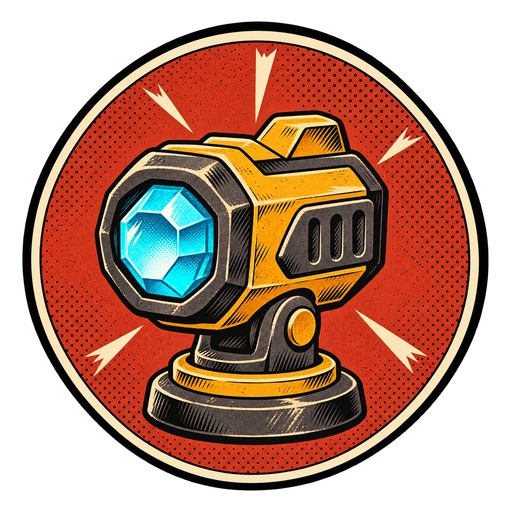
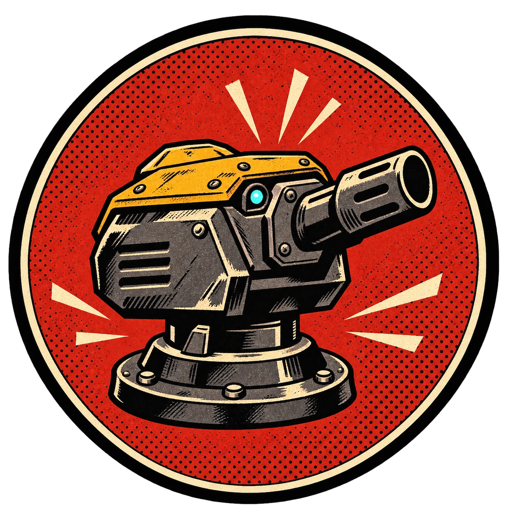
Storage countdown, half barricade gap, turret rewards, sparks (0.1.16)
- Stored items show a radial countdown fill while looked at.
- Fully barricaded three-way splits leave one branch half open, a narrow gap
  the jeep (and the autopilot) can get through without damage.
- Turret kills pay 20 coins with a "+20" popup, like rock hits.
- New turret icon (supplied art).
- Orange sparks off the side of the jeep scraping a road edge.
- Rock-throw stare cut from 1 s to 0.7 s.
- Headless preview: 121 checks, all passing.

diff --git a/Assets/LastLight/Editor/PrototypeBuilder.cs b/Assets/LastLight/Editor/PrototypeBuilder.cs
@@ -541,6 +541,7 @@ namespace LastLight.EditorTools
                         if (director.Track.OnCliffStretch(director.Distance + 2f)) Shot(cliffWidths.Count > 3 ? "cliff_narrow" : "cliff");
                     }
                     if (mode == AutopilotMode.NoSteering && director.Car.scraping) Shot("scraping");
+                    if (mode == AutopilotMode.NoSteering && director.Car.scraping && director.Car.speed > 3f && director.Fx.ActiveCount > 12) Close("scraping_sparks");
                     TrackNewFeatures();
                     if (mode == AutopilotMode.TakeDeadEnds && director.Car.trapped) Shot("trapped");
                     if (director.Car.falling && t > 0f) fallFrames++;
@@ -769,7 +770,9 @@ namespace LastLight.EditorTools
 
             Phase("Normal driving", AutopilotMode.Normal, 150f, null);
             int normalEnd = director.EventLog.Count;
+            int sparksBefore = director.ScrapeSparks;
             Phase("No steering", AutopilotMode.NoSteering, 45f, null);
+            int scrapeSparks = director.ScrapeSparks - sparksBefore;
             int noSteerEnd = director.EventLog.Count;
             Phase("Into dead ends", AutopilotMode.TakeDeadEnds, 240f, () => director.EventLog.Skip(noSteerEnd).Any(l => l.Contains("Run over: Trapped")));
             int trappedEnd = director.EventLog.Count;
@@ -810,6 +813,7 @@ namespace LastLight.EditorTools
             Run(TurretGun.Duration + 0.6f);
             bool turretExpired = !director.Turret.Active;
             int turretShots = director.Turret.ShotsFired, turretKills = director.Turret.Kills;
+            int turretRewards = director.EventLog.Count(l => l.Contains("Turret kill reward: +20 coins"));
 
             // Acid: stop dodging and let the shooters hit the jeep.
             director.autopilotMode = AutopilotMode.NoSteering;
@@ -1035,6 +1039,7 @@ namespace LastLight.EditorTools
             }
             int storeStart = director.EventLog.Count;
             LookAtRack(0, 0.6f);
+            bool countdownShown = director.Rack.FillVisible(0);
             bool notUsedEarly = director.Save.SlotItem(0) == PickupKind.Shovel && !director.FrontShovel.Active;
             Render(cam, rt, headWorld, director.Rack.root.position, Path.Combine(outDir, "view_storage_rack_dwell.png"));
             LookAtRack(0, 0.55f);
@@ -1260,7 +1265,7 @@ namespace LastLight.EditorTools
             director.Restart();
             int lateStart = director.EventLog.Count;
             float lateT = 0f, firstNaturalWeatherAt = -1f, guaranteedFlashlightS = -1f;
-            while (lateT < 300f && director.Distance < 1400f && director.State == RunState.Running)
+            while (lateT < 320f && director.Distance < 1550f && director.State == RunState.Running)
             {
                 director.Car.invulnerable = 1e6f;
                 director.Tick(dt);
@@ -1276,6 +1281,8 @@ namespace LastLight.EditorTools
                 if (director.Track.ForkAt(director.Distance + 6f) is Fork tf && tf.ThreeWay && director.Track.BranchesSeparated(director.Distance + 6f)) Shot(tf.BlockedCount == 3 ? "three_way_all_blocked" : "three_way");
                 if (director.Track.TwinAt(director.Distance + 4f) != null && director.Track.OnCliffStretch(director.Distance + 4f)) Shot("twin_cliff");
                 if (director.Weather.Kind == WeatherKind.Snow && director.Weather.SnowCover > 0.8f) Shot("snow_natural");
+                if (director.Track.ForkAt(director.Distance + director.Car.boostOffset) is Fork gf && gf.HalfBlocked(director.Car.branch)
+                    && director.Track.hazards.Any(h => h != null && h.alive && h.kind == HazardKind.Barricade && Mathf.Abs(h.DioramaLocal.z - director.Car.Z) < 3f)) { Close("three_way_gap"); Shot("three_way_gap"); }
                 if (director.Weather.Kind == WeatherKind.Storm && director.Track.hazards.Any(h => h != null && h.alive && h.Blown && Diorama.InsideDisk(h.DioramaLocal))) Shot("storm_branch");
             }
             var lateLog = director.EventLog.Skip(lateStart).ToList();
@@ -1284,6 +1291,8 @@ namespace LastLight.EditorTools
             int threeWayTaken = lateLog.Count(l => l.Contains("branch of a three-way split"));
             int threeWayClear = lateLog.Count(l => l.Contains("branch of a three-way split: clear branch"));
             int threeWayAllBlocked = director.Track.ThreeWaySplits[3];
+            int threeWayGapTaken = lateLog.Count(l => l.Contains("half-barricaded branch with a narrow gap"));
+            int lateBarricadeHits = lateLog.Count(l => l.Contains("a barricade"));
             int twinCrossings = 0;
             {
                 bool onTwin = false;
@@ -1455,6 +1464,7 @@ namespace LastLight.EditorTools
             Check("Clear branch of an obstacle split taken", count("clear branch") > 0);
             Check("Split road rejoined", count("Split road rejoined") > 0);
             Check("Curves push an unsteered jeep into the edge", log.Skip(normalEnd).Take(noSteerEnd - normalEnd).Any(l => l.Contains("Scraping")));
+            Check($"Scraping a road edge throws sparks ({scrapeSparks} bursts)", scrapeSparks > 0);
             Check("Dead-end branch taken", count("split: dead end") > 0);
             Check("Dead-end wall traps the jeep", count("Hit the dead-end wall: trapped") > 0);
             Check("Trapped run ends", count("Run over: Trapped") > 0);
@@ -1476,6 +1486,7 @@ namespace LastLight.EditorTools
             Check($"Shooters spit acid at the jeep ({count("Shooter spat acid")} shots)", count("Shooter spat acid") > 0);
             Check($"Acid slows the jeep hard ({acidSpeed * 10f:0} km/h)", acidSlowed && acidSpeed < acidCruise * director.acidSpeedCap + 0.01f);
             Check($"Turret appears, fires and kills shooters for 10 s ({turretShots} rounds, {turretKills} kills)", turretUp && turretShots > 0 && turretKills > 0 && turretExpired);
+            Check($"Each turret kill pays {GameDirector.SpitterKillCoins} coins ({turretRewards} rewards)", turretKills > 0 && turretRewards >= turretKills);
             Check($"No turret powerups before the medium stage ({earlyTurrets})", earlyTurrets == 0);
             Check($"Shovel smashes obstacles without slowing ({shovelSmashes} smashes)", shovelSmashes > 0 && shovelNoSlowdown);
             Check("Shovel breaks after 5 hits", !shovelBroke || shovelSmashes == Shovel.MaxHits);
@@ -1512,7 +1523,7 @@ namespace LastLight.EditorTools
             Check("Storage starts with one free slot; slots unlock in order for coins", oneFreeSlot && outOfOrderRefused && slotsUnlocked);
             Check("A 4th storage slot can only be bought once a second vehicle is owned", fourthBarred && fourthAfterVehicle && fourthSlotBought);
             Check("Items bought in the garage fill empty slots; a full compartment refuses", itemsStored && fullRefused);
-            Check("A 1 s look at a stored item uses it; empty slots ignore the gaze", notUsedEarly && shovelUsed && emptySlotIgnored);
+            Check("A 1 s look at a stored item uses it, with a radial countdown fill; empty slots ignore the gaze", notUsedEarly && countdownShown && shovelUsed && emptySlotIgnored);
             Check("Different powerups stack; the same one replaces the equipped one", stacked && boostReplaced);
             Check("Fog smothers the scout light; the weather dial shows fog", fogBlocks);
             Check("A flashlight cuts through the fog", flashlightCutsFog);
@@ -1577,9 +1588,9 @@ namespace LastLight.EditorTools
             Check("Rhino starts every run with a shovel fitted, outside the compartment", rhinoShovel);
             Check("All four vehicles use their Tripo models, and the garage stage uses the Tripo garage", vehiclesUseModels && director.GarageUI.UsesGarageModel);
             Check("Angel Transponder: the most expensive vehicle, first respawn in a run free, then the usual price", angelPricedTop && angelFirstFree && freeRespawned && secondCostsBase);
-            Check($"Three-way splits from the medium stage: the autopilot takes a clear branch ({threeWayTaken} taken, {threeWayClear} clear, {threeWayAllBlocked} fully barricaded)",
-                threeWayTaken >= 2 && threeWayClear >= threeWayTaken - threeWayAllBlocked);
-            Check("Three-way splits start with 2 of 3 clear, then 1 of 3, then all 3 barricaded", ThreeWayProgression());
+            Check($"Three-way splits from the medium stage: the autopilot takes a clear branch or the narrow gap without hitting a barricade ({threeWayTaken} taken, {threeWayClear} clear, {threeWayGapTaken} through a gap, {lateBarricadeHits} hits)",
+                threeWayTaken >= 2 && threeWayClear + threeWayGapTaken >= threeWayTaken && lateBarricadeHits == 0);
+            Check("Three-way splits start with 2 of 3 clear, then 1 of 3; when all 3 are barricaded one has a narrow gap", ThreeWayProgression());
             Check("The shovel smashes through a split road's dead-end wall without stopping", shovelBreaksWall);
             Check($"Twin cliff roads from {TrackGenerator.TwinCliffsFrom:0} m: the first is safe both ways, later ones have a dead end ({twinsPlanned} planned, {twinDeadPlanned} with a dead end)", twinsPlanned >= 2 && firstTwinSafe && twinDeadPlanned >= 1);
             Check("Twin cliff road shape: two strips, one narrower, a ridge across, and the dead strip ends in a drop", stripsSplit && oneNarrower && ridgeBridges && deadStripDrops && safeRespawn);
@@ -1648,19 +1659,22 @@ namespace LastLight.EditorTools
             var root = new GameObject("Three-way Odds").transform;
             var mat = new Material(Shader.Find("LastLight/Diorama"));
             var plan = new System.Collections.Generic.List<Vector2>();
+            int halfGaps = 0, allBlocked = 0;
             for (int seed = 1; seed <= 6; seed++)
             {
                 var t = new TrackGenerator(root, mat, mat, seed);
                 for (float dist = 0f; dist < 1800f; dist += 6f) t.Scroll(dist, 0f, Mathf.FloorToInt(dist / 120f), 20f);
                 plan.AddRange(t.ThreeWayPlan);
+                halfGaps += t.ThreeWayHalfGaps;
+                allBlocked += t.ThreeWaySplits[3];
                 t.Reset();
             }
             Object.DestroyImmediate(root.gameObject);
             bool none = plan.All(p => p.x >= TrackGenerator.ThreeWayFrom);
             bool earlyOne = plan.Where(p => p.x < TrackGenerator.TwoBlockedFrom).All(p => p.y == 1) && plan.Any(p => p.x < TrackGenerator.TwoBlockedFrom);
             bool midTwo = plan.Any(p => p.x >= TrackGenerator.TwoBlockedFrom && p.y == 2) && plan.Where(p => p.x < TrackGenerator.AllBlockedFrom).All(p => p.y <= 2);
-            bool lateThree = plan.Any(p => p.x >= TrackGenerator.AllBlockedFrom && p.y == 3);
-            Debug.Log($"[LastLight] Three-way splits over 6 seeds: {plan.Count}; {string.Join(", ", plan.Select(p => $"{p.x:0} m/{p.y:0}"))}");
+            bool lateThree = plan.Any(p => p.x >= TrackGenerator.AllBlockedFrom && p.y == 3) && halfGaps == allBlocked;
+            Debug.Log($"[LastLight] Three-way splits over 6 seeds: {plan.Count}, {allBlocked} fully barricaded with {halfGaps} narrow gaps; {string.Join(", ", plan.Select(p => $"{p.x:0} m/{p.y:0}"))}");
             return none && earlyOne && midTwo && lateThree;
         }
 

diff --git a/Assets/LastLight/Scripts/GameDirector.cs b/Assets/LastLight/Scripts/GameDirector.cs
@@ -87,8 +87,11 @@ namespace LastLight
         [Header("Coins")]
         /// <summary>Cost of the first paid respawn in a run. The next costs 2x that, the one after 3x the last, and so on.</summary>
         [System.NonSerialized] public int respawnBaseCost = 100;
-        /// <summary>Coins for knocking a spitter down with a thrown rock.</summary>
-        public const int RockHitCoins = 20;
+        /// <summary>Coins for killing a spitter, with a thrown rock or the turret.</summary>
+        public const int SpitterKillCoins = 20;
+        public const int RockHitCoins = SpitterKillCoins;
+        /// <summary>Spark bursts thrown while scraping a road edge since boot (across runs). For tests.</summary>
+        public int ScrapeSparks { get; private set; }
         [Tooltip("Save the coin bank, unlocks and garage choices between sessions. Tests turn this off.")]
         public bool persistProgress = true;
 
@@ -206,7 +209,7 @@ namespace LastLight
         int runIndex;
         string endReason = "";
         float reacquire, recenterDelay = 0.6f, autopilotRetry;
-        float boostTimer, flashTimer, scrapeSoundTimer;
+        float boostTimer, flashTimer, scrapeSoundTimer, sparkTimer;
         bool wasScraping;
         bool onDeadBranch;
         bool autoEscaping;
@@ -360,11 +363,7 @@ namespace LastLight
             thrower.OnHit = z =>
             {
                 KillShooter(z, "A thrown rock knocked down");
-                Coins += RockHitCoins;
-                progress.AddCoins(RockHitCoins);
-                sound?.Play(sound.coin);
-                thrower.Popup(z.CenterDioramaLocal + Vector3.up * 1.6f, $"+{RockHitCoins}", HeadLocal);
-                Log($"Rock hit reward: +{RockHitCoins} coins, bank {progress.Coins}");
+                RewardSpitterKill(z, "Rock hit");
             };
             trails = new SnowTrails(worldRoot, terrainMaterial);
 
@@ -616,7 +615,7 @@ namespace LastLight
             {
                 bool onCliff = track.OnCliffStretch(carS);
                 car.Steer(dt, slope, onCliff ? curveDrift * CliffDriftFraction : curveDrift, min, max);
-                UpdateScrape(dt);
+                UpdateScrape(dt, car.x > (min + max) * 0.5f ? 1f : -1f);
                 if (onCliff && track.OverAbyss(car.x, carS)) FallIntoAbyss();
                 else if (wasOnCliff && !onCliff) Log("Crossed a cliff road");
                 wasOnCliff = onCliff;
@@ -896,7 +895,21 @@ namespace LastLight
             if (killed != null) KillShooter(killed);
         }
 
-        void KillShooter(ShooterZombie z) => KillShooter(z, "Turret killed");
+        void KillShooter(ShooterZombie z)
+        {
+            KillShooter(z, "Turret killed");
+            RewardSpitterKill(z, "Turret kill");
+        }
+
+        /// <summary>Pays for a dead spitter, with a gold "+20" rising over it.</summary>
+        void RewardSpitterKill(ShooterZombie z, string how)
+        {
+            Coins += SpitterKillCoins;
+            progress.AddCoins(SpitterKillCoins);
+            sound?.Play(sound.coin);
+            if (z != null) thrower.Popup(z.CenterDioramaLocal + Vector3.up * 1.6f, $"+{SpitterKillCoins}", HeadLocal);
+            Log($"{how} reward: +{SpitterKillCoins} coins, bank {progress.Coins}");
+        }
 
         void KillShooter(ShooterZombie z, string how)
         {
@@ -987,14 +1000,25 @@ namespace LastLight
                 Fork f = track.ForkAt(carS);
                 onDeadBranch = f.deadSide == car.branch;
                 string detail = onDeadBranch ? "dead end" : f.obstacleSide == car.branch ? "obstacle branch"
+                    : f.HalfBlocked(car.branch) ? "half-barricaded branch with a narrow gap"
                     : f.Blocked(car.branch) ? "barricaded branch" : "clear branch";
                 string which = car.branch == Fork.Middle ? "middle" : car.branch < 0 ? "left" : "right";
                 Log($"Took the {which} {(f.ThreeWay ? "branch of a three-way split" : "split")}: {detail}");
             }
         }
 
-        void UpdateScrape(float dt)
+        void UpdateScrape(float dt, float side)
         {
+            // Sparks spray off the side scraping the edge, every few hundredths of a second.
+            if (car.scraping && car.speed > 1f && (sparkTimer -= dt) <= 0f)
+            {
+                sparkTimer = 0.05f;
+                ScrapeSparks++;
+                var at = new Vector3(car.ScreenX + side * (Vehicle.HalfWidth + 0.05f), 0.25f, car.Z + Random.Range(-0.9f, 0.7f));
+                Color spark = Random.value < 0.5f ? new Color(1f, 0.62f, 0.12f, 1f) * 1.3f : new Color(1f, 0.38f, 0.05f, 1f) * 1.25f;
+                spark.a = 1f;
+                fx.Splash(worldRoot, at, spark, 6, 5.5f, 0.13f, 0.28f, 1.4f);
+            }
             scrapeSoundTimer -= dt;
             if (car.scraping && scrapeSoundTimer <= 0f)
             {
@@ -1527,6 +1551,8 @@ namespace LastLight
                 }
                 TrackGenerator.Branch(fork, Mathf.Clamp(carS + 6f, fork.startS, fork.EndS - 0.01f), out float b, out float w);
                 desired = Fork.BranchX(side, Mathf.Max(b, 2f));
+                // A half-barricaded branch: aim for the narrow gap beside the barricade.
+                if (fork.HalfBlocked(side)) desired -= fork.halfK * TrackGenerator.BarricadeHalfWidth;
                 // Escape test: drive into the wall first, then steer to the gap and crawl out.
                 if (car.trapped) autoEscaping = true;
                 if (autopilotMode == AutopilotMode.EscapeDeadEnds && fork.deadSide != 0 && car.branch == fork.deadSide && autoEscaping)
@@ -1603,10 +1629,10 @@ namespace LastLight
             return i;
         }
 
-        /// <summary>A three-way split: the clear branch nearest the jeep; if all three are barricaded, the middle one.</summary>
+        /// <summary>A three-way split: the clear branch nearest the jeep; if all three are barricaded, the one with the narrow gap.</summary>
         int PickThreeWayBranch(Fork fork)
         {
-            int best = Fork.Middle;
+            int best = fork.halfIndex == 0 ? -1 : fork.halfIndex == 2 ? 1 : Fork.Middle;
             float bestCost = float.MaxValue;
             foreach (int side in new[] { -1, Fork.Middle, 1 })
             {

diff --git a/Assets/LastLight/Scripts/TrackGenerator.cs b/Assets/LastLight/Scripts/TrackGenerator.cs
@@ -43,6 +43,9 @@ namespace LastLight
         public float maxOffset = 7.5f;      // how far the outer branches open from the centreline
         public float branchHalf = 3f;       // half width of each branch once open
         public bool wallBroken;     // a shovel smashed the dead-end wall
+        public int halfIndex = -1;  // three-way, all blocked: this branch (left, middle, right) only has half a barricade
+        public int halfK;           // which side of that branch the half barricade stands on (-1 or +1); the gap is the other side
+        public bool HalfBlocked(int side) => ThreeWay && side != 0 && halfIndex == Index(side);
         public bool ThreeWay => ways == 3;
         public static int Index(int side) => side == Middle ? 1 : side < 0 ? 0 : 2;
         public bool Blocked(int side) => ThreeWay && side != 0 && blocked[Index(side)];
@@ -115,7 +118,7 @@ namespace LastLight
         /// <summary>And from here on often all three.</summary>
         public const float AllBlockedFrom = 1000f;
         const float ThreeWayOffset = 8.6f, ThreeWayHalf = 2.5f;
-        const float BarricadeHalfWidth = 1.32f;
+        public const float BarricadeHalfWidth = 1.32f;
         static readonly int GuaranteedFlashlightChunk = Mathf.CeilToInt(450f / ChunkLength);
         public const float MediumStageFrom = 300f;
         public const float LateStageFrom = 700f;
@@ -148,6 +151,8 @@ namespace LastLight
         public readonly int[] ThreeWaySplits = new int[4];
         /// <summary>Distance where each three-way split starts, with how many branches it blocks. For tests.</summary>
         public readonly List<Vector2> ThreeWayPlan = new List<Vector2>();
+        /// <summary>Fully barricaded three-way splits that got a half barricade (a narrow gap). For tests.</summary>
+        public int ThreeWayHalfGaps { get; private set; }
         /// <summary>Twin cliff roads planned so far, and how many had a dead end. For tests.</summary>
         public int TwinCliffs { get; private set; }
         public int TwinDeadEnds { get; private set; }
@@ -597,6 +602,7 @@ namespace LastLight
             GuaranteedFlashlightS = -1f;
             System.Array.Clear(ThreeWaySplits, 0, ThreeWaySplits.Length);
             ThreeWayPlan.Clear();
+            ThreeWayHalfGaps = 0;
             TwinCliffs = TwinDeadEnds = 0;
             nextIndex = 0;
             lastType = ChunkType.Quiet;
@@ -759,6 +765,14 @@ namespace LastLight
             var order = new List<int> { 0, 1, 2 };
             for (int i = 0; i < order.Count; i++) { int j = rng.Next(i, order.Count); (order[i], order[j]) = (order[j], order[i]); }
             for (int i = 0; i < count; i++) f.blocked[order[i]] = true;
+            if (count == 3)
+            {
+                // All three shut would leave no way through without a shovel or shield: one gets only half a barricade,
+                // leaving a narrow gap the jeep can squeeze through.
+                f.halfIndex = order[rng.Next(3)];
+                f.halfK = rng.NextDouble() < 0.5 ? -1 : 1;
+                ThreeWayHalfGaps++;
+            }
             ThreeWaySplits[count]++;
             ThreeWayPlan.Add(new Vector2(f.startS, count));
         }
@@ -1109,6 +1123,7 @@ namespace LastLight
                         float bx = Fork.BranchX(side, b);
                         for (int k = -1; k <= 1; k += 2)
                         {
+                            if (f.HalfBlocked(side) && k != f.halfK) continue;   // the narrow gap
                             var h = SpawnHazard(c, HazardKind.Barricade, barricadeMesh);
                             h.halfWidth = BarricadeHalfWidth;
                             h.transform.localPosition = new Vector3(Center(rowS) + bx + k * (w - BarricadeHalfWidth), 0f, z);

diff --git a/Assets/LastLight/Scripts/Storage.cs b/Assets/LastLight/Scripts/Storage.cs
@@ -303,6 +303,8 @@ namespace LastLight
         readonly Label[] labels = new Label[StorageCatalog.MaxSlots];
         readonly MeshRenderer[] dwellRings = new MeshRenderer[StorageCatalog.MaxSlots];
         readonly Mesh[] dwellMeshes = new Mesh[StorageCatalog.MaxSlots];
+        readonly MeshRenderer[] fills = new MeshRenderer[StorageCatalog.MaxSlots];
+        readonly Mesh[] fillMeshes = new Mesh[StorageCatalog.MaxSlots];
         readonly float[] dwell = new float[StorageCatalog.MaxSlots];
         readonly float[] flash = new float[StorageCatalog.MaxSlots];
         readonly MeshBuilder mb = new MeshBuilder();
@@ -350,8 +352,16 @@ namespace LastLight
                 dwellRings[i] = MeshBuilder.Spawn("Dwell", t, dwellMeshes[i], glowMat);
                 dwellRings[i].transform.localPosition = new Vector3(0f, 0f, -0.3f);
                 dwellRings[i].gameObject.SetActive(false);
+                // A radial countdown: a wedge sweeping clockwise from 12 o'clock across the item while you look.
+                fillMeshes[i] = new Mesh { name = "LL_StorageFill_" + i };
+                fills[i] = MeshBuilder.Spawn("Countdown Fill", t, fillMeshes[i], glowMat);
+                fills[i].transform.localPosition = new Vector3(0f, 0f, -0.25f);
+                fills[i].gameObject.SetActive(false);
             }
         }
+
+        /// <summary>True while a slot's radial countdown fill is showing. For tests.</summary>
+        public bool FillVisible(int slot) => fills[slot].gameObject.activeSelf;
 
         public bool Visible
         {
@@ -436,8 +446,22 @@ namespace LastLight
 
                 bool showDwell = dwell[i] > 0.02f && item.HasValue;
                 if (dwellRings[i].gameObject.activeSelf != showDwell) dwellRings[i].gameObject.SetActive(showDwell);
+                if (fills[i].gameObject.activeSelf != showDwell) fills[i].gameObject.SetActive(showDwell);
                 if (showDwell)
                 {
+                    float k = Mathf.Clamp01(dwell[i] / StorageCatalog.UseSeconds);
+                    mb.Clear();
+                    int seg = Mathf.Max(1, Mathf.CeilToInt(48 * k));
+                    float r = SlotRadius * 0.95f;
+                    for (int s = 0; s < seg; s++)
+                    {
+                        float a0 = Mathf.PI * 0.5f - Mathf.PI * 2f * k * s / seg, a1 = Mathf.PI * 0.5f - Mathf.PI * 2f * k * (s + 1) / seg;
+                        mb.Tri(Vector3.zero, new Vector3(Mathf.Cos(a0), Mathf.Sin(a0), 0f) * r, new Vector3(Mathf.Cos(a1), Mathf.Sin(a1), 0f) * r, Color.white);
+                    }
+                    mb.ToMesh(fillMeshes[i].name, fillMeshes[i]);
+                    Color fc2 = StorageCatalog.Tint(item.Value); fc2.a = 0.45f + 0.25f * k;
+                    mpb.SetColor("_Tint", fc2);
+                    fills[i].SetPropertyBlock(mpb);
                     mb.Clear();
                     mb.Arc(Vector3.zero, SlotRadius + 0.1f, SlotRadius + 0.38f, dwell[i] / StorageCatalog.UseSeconds, 40, Color.white);
                     mb.ToMesh(dwellMeshes[i].name, dwellMeshes[i]);

diff --git a/Assets/LastLight/Scripts/GazeThrow.cs b/Assets/LastLight/Scripts/GazeThrow.cs
@@ -5,12 +5,12 @@ namespace LastLight
 {
     /// <summary>
     /// Manual gaze attack on spitters. Stare at a spitter you can see (on the disk, or lit by the scout light or
-    /// flashlight) for a second, and the jeep hurls a rock at it at high speed that knocks it down.
+    /// flashlight) for 0.7 seconds, and the jeep hurls a rock at it at high speed that knocks it down.
     /// A ring fills round the spitter while you stare. Positions are disk-local.
     /// </summary>
     public sealed class RockThrower
     {
-        public const float StareSeconds = 1f;
+        public const float StareSeconds = 0.7f;
         const float StareRadius = 1.9f;         // game units around the spitter's body that count as looking
         const float LoseGrace = 0.2f;
         const float RockSpeed = 42f;            // game units per second

diff --git a/CHANGELOG.md b/CHANGELOG.md
@@ -4,6 +4,16 @@ Builds are release APKs for PICO Swan (Android, ARM64), package `com.lastlight.p
 Version history before git: 0.1.1 to 0.1.5 were built and installed but not committed, so the first
 commit holds the 0.1.6 source.
 
+## 0.1.16
+
+- Storage: while you look at a stored item, a radial countdown fill sweeps clockwise across it, in the item's colour.
+- Three-way splits: when all three branches are barricaded, one of them now has only half a barricade, leaving a
+  narrow gap the jeep can squeeze through without damage.
+- Turret kills on spitters pay 20 coins, like rock hits, with the same gold "+20".
+- New turret icon.
+- Scraping a road edge throws orange sparks off that side of the jeep.
+- Rock throws: the stare at a spitter is now 0.7 s (was 1 s).
+
 ## 0.1.15
 
 - Tripo models: the Scout Jeep, Hauler Pickup, Rhino APC and Angel Transponder are now their Tripo models in runs,
